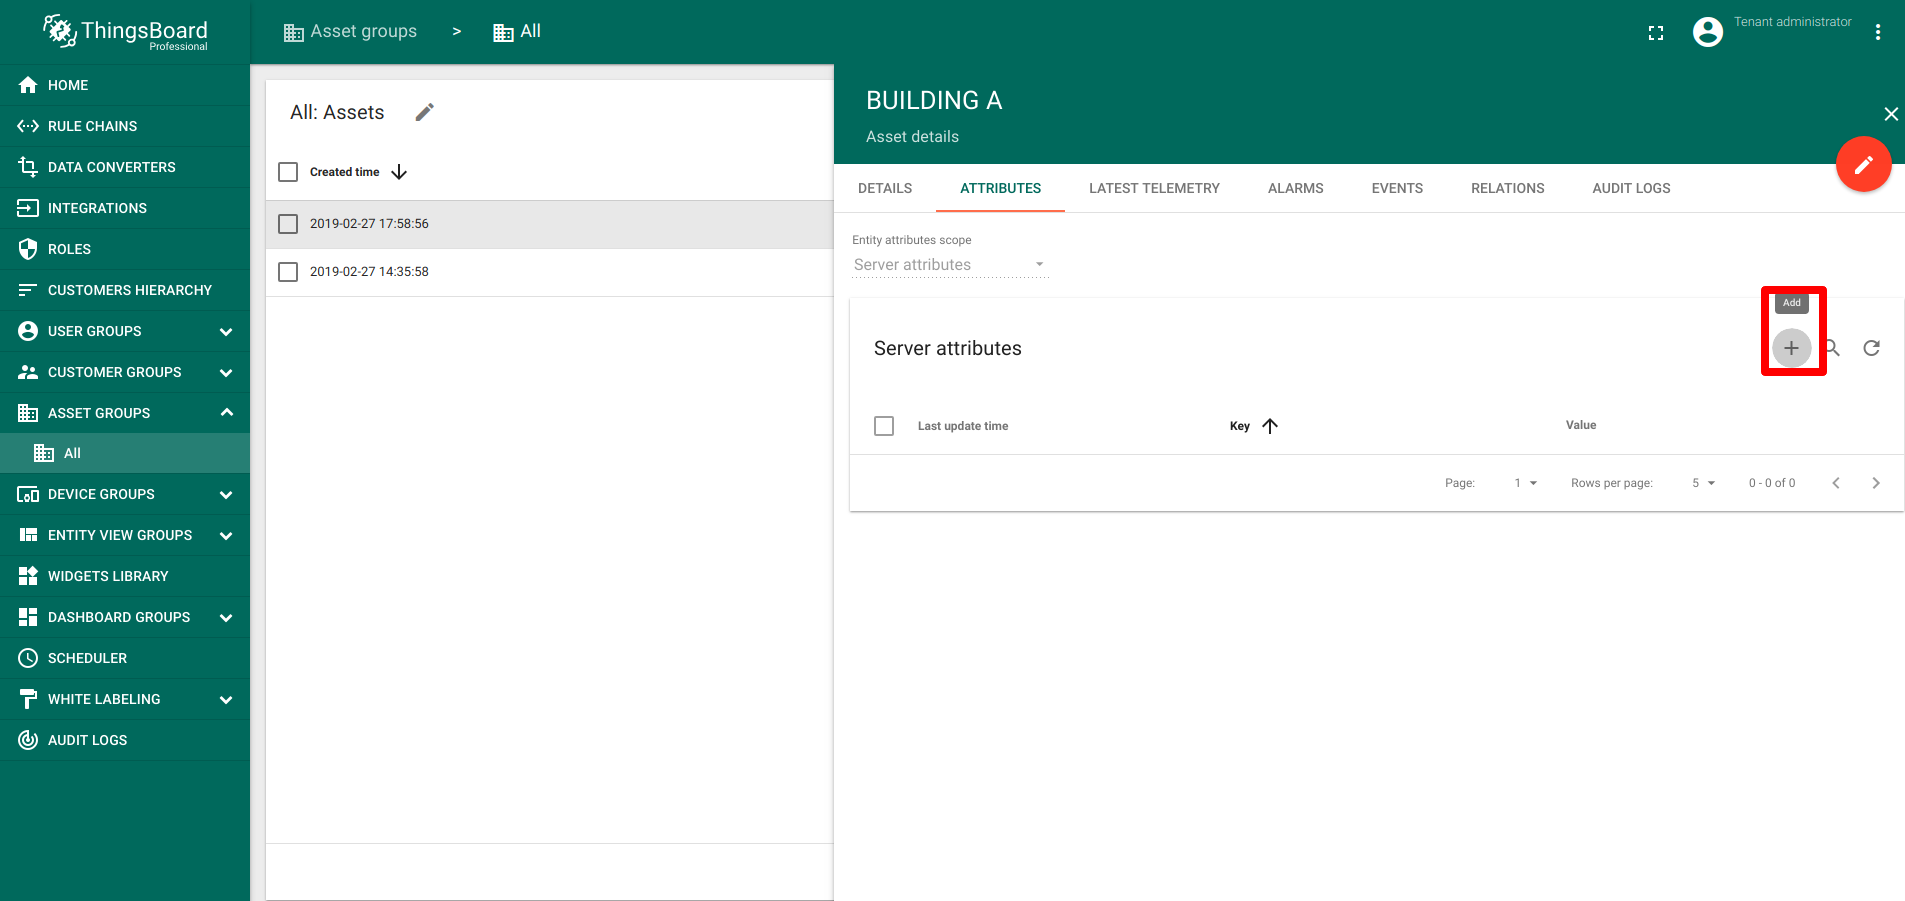
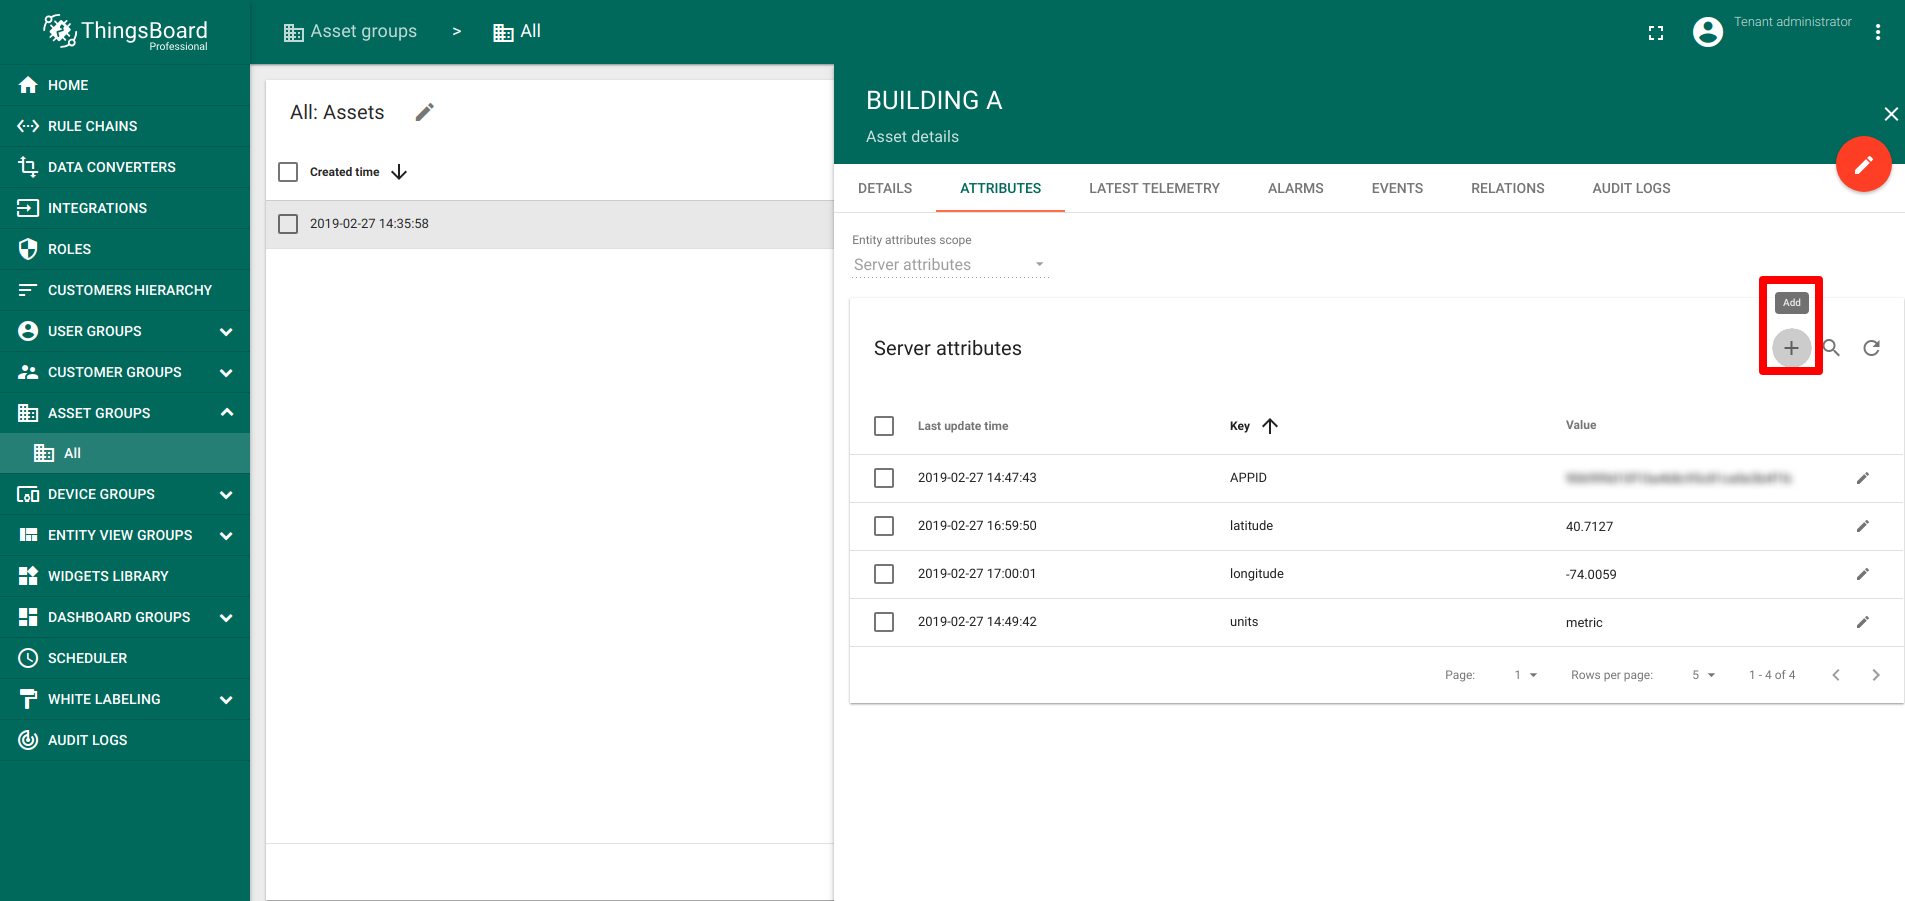
fixes to weather guide

diff --git a/docs/user-guide/rule-engine-2-0/get-weather-using-rest-api-call.md b/docs/user-guide/rule-engine-2-0/get-weather-using-rest-api-call.md
@@ -1,6 +1,6 @@
 ---
 layout: docwithnav
-title: Get weather using REST API
+title: Weather reading using REST API calls
 description: REST API weather guide
 
 ---
@@ -27,17 +27,15 @@ We assume you have completed the following guides and reviewed the articles list
 
   * [Getting Started](/docs/getting-started-guides/helloworld/) guide.
   * [Rule Engine Overview](/docs/user-guide/rule-engine-2-0/overview/).
-  * [REST API](/docs/reference/rest-api/).
+  * [External rule nodes](/docs/user-guide/rule-engine-2-0/external-nodes/).
 
-## Model definition
+## Adding the asset
   
-We will operate with asset that has name "Building A" and type "building" which has to be created.
+Add Asset entity in ThingsBoard. Its name is **Building A** and its type is **building**.
 
 ![image](/images/user-guide/rule-engine-2-0/tutorials/rest-api-weather/rest-api-weather-building.png)
 
-## Getting started
-
-### Registering on data-providing website
+## Registering on data-providing website
 
 In order to get weather data you should register on a website which will provide it. In this case
  [OpenWeatherMap](https://openweathermap.org/) will be used.
@@ -46,9 +44,9 @@ After signing up there go to [this](https://home.openweathermap.org/api_keys) pa
 
 ![image](/images/user-guide/rule-engine-2-0/tutorials/rest-api-weather/openweathermap-apikey.png)
 
-### Creating attributes
+## Creating attributes
 
-For node to work server attributes should be created - api key, longitude, latitude and units of measurement. 
+For REST API call server attributes should be created - api key, longitude, latitude and units of measurement. 
 Attributes should look like this:
 
 - Go to **Building A** -> **Attributes** -> **Add**
@@ -57,7 +55,7 @@ Attributes should look like this:
 
 - Fill in the attributes with the input data shown in the following table: 
 
-<table style="width: 25%">
+<table style="width: 50%">
   <thead>
       <tr>
           <td><b>Field</b></td><td><b>Data Type</b></td><td><b>Input Data</b></td>
@@ -91,46 +89,164 @@ Attributes should look like this:
 
 In this example the coordinates of New York City and metric units will be used.
 
-### Setting up rule chain
+## Message flow
 
+In this section, we explain the purpose of each node in this tutorial. There will be one rule chain involved:
+
+  - **Outside Temperature/Humidity** - rule chain sends API calls to OpenWeatherMap every 15 seconds and sends data about
+  humidity and temperature to a chosen asset.
+
+The following screenshot show how the above Rule Chain should look like:
+
+![image](/images/user-guide/rule-engine-2-0/tutorials/rest-api-weather/weather-rule-chain.png)   
+   
 Download and [**import**](docs/user-guide/ui/rule-chains/#rule-import) attached
 json [**file**](/docs/user-guide/resources/outside_temperature_humidity.json) with a rule chain for this tutorial.
+Be aware that you need to set the asset you created in the beginning as an originator in the leftmost generator node.
 
-![image](/images/user-guide/rule-engine-2-0/tutorials/rest-api-weather/weather-rule-chain.png) 
+The following section shows you how to create this rule chain from scratch.
 
- * **Node A**: Generator node
-      
-    * Generates empty messages to trigger REST API calls
+#### Create new Rule Chain (**Outside Temperature/Humidity**)
+
+Go to **Rule Chains** -> **Add new Rule Chain** 
+
+Configuration:
+
+- Name : **Outside Temperature/Humidity**
+
+![image](/images/user-guide/rule-engine-2-0/tutorials/rest-api-weather/add-weather-rest-api-chain.png) 
+
+New Rule Chain is created. Press **Edit** button and configure Chain.
+
+###### Adding the required nodes
+
+In this rule chain, you will create 5 nodes as it will be explained in the following sections:
+
+###### Node A: **Generator node**
+   - Add the **Generator** node. This rule node Generates empty messages to trigger REST API calls.
+   - Fill its fields the following way:
+   <table style="width: 50%">
+     <thead>
+         <tr>
+             <td><b>Field</b></td><td><b>Value</b></td>
+         </tr>
+     </thead>
+     <tbody>
+         <tr>
+             <td>Name</td>
+             <td>Generate requests</td>
+         </tr>
+         <tr>
+             <td>Message count</td>
+             <td>0</td>
+         </tr>
+         <tr>
+             <td>Period in seconds</td>
+             <td>15</td>
+         </tr>
+         <tr>
+             <td>Originator type</td>
+             <td>Asset</td>
+         </tr>
+         <tr>
+             <td>Asset</td>
+             <td>Building A</td>
+         </tr>
+         <tr>
+             <td>Generate function</td>
+             <td>return { msg: {}, metadata: {}, msgType: "POST_TELEMETRY_REQUEST" };</td>
+         </tr>
+      </tbody>
+   </table>
     
    ![image](/images/user-guide/rule-engine-2-0/tutorials/rest-api-weather/weather-rule-chain-node-A.png) 
    
- * **Node B**: Originator attributes enrichment node
-        
-     * Puts server attributes latitude, longitude, APPID and units into metadata
-      
-    ![image](/images/user-guide/rule-engine-2-0/tutorials/rest-api-weather/weather-rule-chain-node-B.png)
+###### Node B: **Originator attributes enrichment node**
+   - Add the **Originator attributes enrichment node** and connect it to **Generator** node with a relation type
+   **Success**. This node will fetch server attributes atitude, longitude, APPID and units of the originator set up 
+   in a **Generator** node into metadata
+   - Fill its fields the following way:
+       <table style="width: 50%">
+         <thead>
+             <tr>
+                 <td><b>Field</b></td><td><b>Value</b></td>
+             </tr>
+         </thead>
+         <tbody>
+             <tr>
+                 <td>Name</td>
+                 <td>Latitude/Longitudes</td>
+             </tr>
+             <tr>
+                 <td>Server attributes</td>
+                 <td>latitude, longitude, APPID, units</td>
+             </tr>
+          </tbody>
+       </table>  
+   ![image](/images/user-guide/rule-engine-2-0/tutorials/rest-api-weather/weather-rule-chain-node-B.png)
   
- * **Node C**: External REST API call node
-        
-     * Performs REST API calls to OpenWeatherMap
-     * Endpoint is http://api.openweathermap.org/data/2.5/weather?lat=${ss_latitude}&lon=${ss_longitude}&units=${ss_units}&APPID=${ss_APPID}
-      
-    ![image](/images/user-guide/rule-engine-2-0/tutorials/rest-api-weather/weather-rule-chain-node-C.png)
-    
- * **Node D**: Script transformation node
-        
-     * Fetches data about outside temperature, outside minimal temperature, outside maximal temperature and outside humidity into a message.
-      
-    ![image](/images/user-guide/rule-engine-2-0/tutorials/rest-api-weather/weather-rule-chain-node-D.png)     
-    
- * **Node E**: Save timeseries node
-        
-     * Puts data into the latest telemetry of asset "Building A".
-      
-    ![image](/images/user-guide/rule-engine-2-0/tutorials/rest-api-weather/weather-rule-chain-node-E.png)       
+###### Node C: **External REST API call node**
+   - Add the **External REST API call node** and connect it to **Originator attributes enrichment node** with a relation 
+   type **Success**. This node will perform REST API calls to OpenWeatherMap.
+   - Fill its fields the following way:
+      <table style="width: 50%">
+             <thead>
+                <tr>
+                    <td><b>Field</b></td><td><b>Value</b></td>
+                </tr>
+             </thead>
+             <tbody>
+                <tr>
+                    <td>Name</td>
+                    <td>Get Weather Data</td>
+                </tr>
+                <tr>
+                    <td>Endpoint URL pattern</td>
+                    <td>http://api.openweathermap.org/data/2.5/weather?lat=${ss_latitude}&lon=${ss_longitude}&units=${ss_units}&APPID=${ss_APPID}</td>
+                </tr>
+                <tr>
+                    <td>Request method</td>
+                    <td>GET</td>
+                </tr>
+                <tr>
+                    <td>Use simple client HTTP factory</td>
+                    <td>False</td>
+                </tr>
+             </tbody>
+      </table>  
+   - ss_latitude, ss_longitude, ss_units, ss_APPID are server attributes fetched from metadata which were put there
+   by **Originator attributes enrichment node**
    
+   ![image](/images/user-guide/rule-engine-2-0/tutorials/rest-api-weather/weather-rule-chain-node-C.png)
+    
+###### Node D: **Script transformation node**
+   - Add the **Script transformation node** and connect it to **External REST API call node** with a relation 
+   type **Success**. This node will put outside temperature, maximal temperature, minimal temperature and humidity into
+   the message.
+   - Fill Transform function the following way:
+     
+     
+  ```js
+      var newMsg = {
+          "outsideTemp": msg.main.temp,
+          "outsideMaxTemp": msg.main.temp_max,
+          "outsideMinTemp": msg.main.temp_min,
+          "outsideHumidity": msg.main.humidity,
+      };
+      
+      
+      return {msg: newMsg, metadata: metadata, msgType: msgType};
+```
+   ![image](/images/user-guide/rule-engine-2-0/tutorials/rest-api-weather/weather-rule-chain-node-D.png)     
+    
+###### Node E: **Save timeseries node**
+        
+   - Add the **Script transformation node** and connect it to **External REST API call node** with a relation 
+        type **Success**.
+      
+   ![image](/images/user-guide/rule-engine-2-0/tutorials/rest-api-weather/weather-rule-chain-node-E.png)     
 
-### Setting up dashboard
+## Setting up dashboard
 
 Download and [**import**](/docs/user-guide/ui/dashboards/#dashboard-import) attached
 json [**file**](/docs/user-guide/resources/weather_dashboard.json) with a dashboard for this tutorial.
